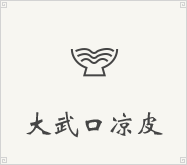
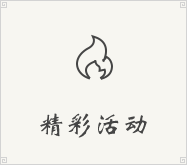
唯简-凉皮
删除凉皮文化页面改为外链

Changed region(s): [[0.1337, 0.6667, 0.8824, 0.8485], [0.3743, 0.2121, 0.6417, 0.4848]]

diff --git a/weijian/liangpi/main.html b/weijian/liangpi/main.html
@@ -46,7 +46,7 @@
 					<li><a href="zhenwei.html"><img src="img/nav_a.png" alt=""></a></li>
 					<li><a href="gongyi.html"><img src="img/nav_b.png" alt=""></a></li>
 					<li><a href="shiyong.html"><img src="img/nav_c.png" alt=""></a></li>
-					<li><a href="wenhua.html"><img src="img/nav_d.png" alt=""></a></li>
+					<li><a href="http://www.dangaoss.com/h5/activity/index?ac_code=ewm"><img src="img/nav_d.png" alt=""></a></li>
 					<li><a class="weixin" href="#"><img src="img/nav_e.png" alt=""></a></li>
 					<li><a href="http://yhsales.taobao.com/"><img src="img/nav_f.png" alt=""></a></li>
 				</ul>
